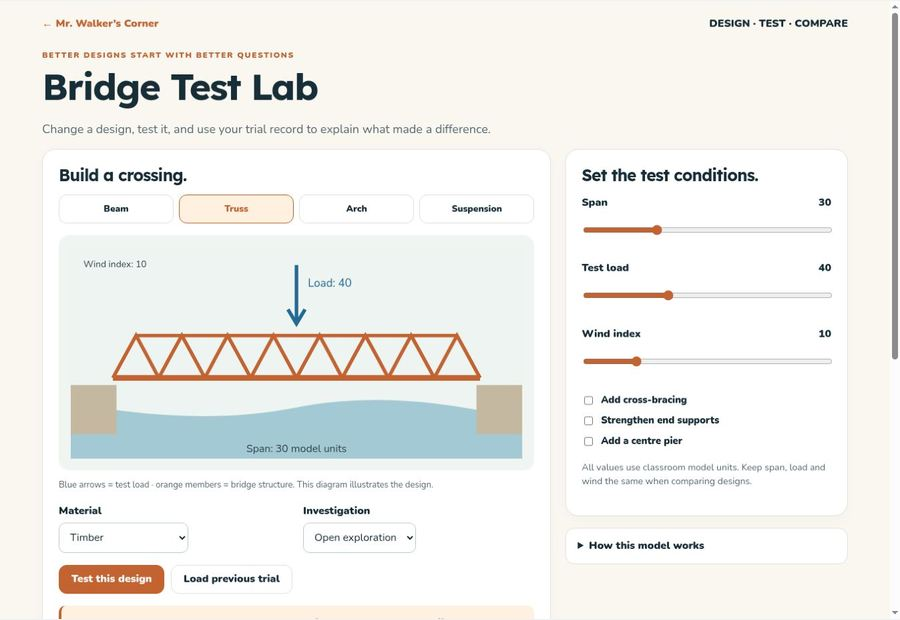
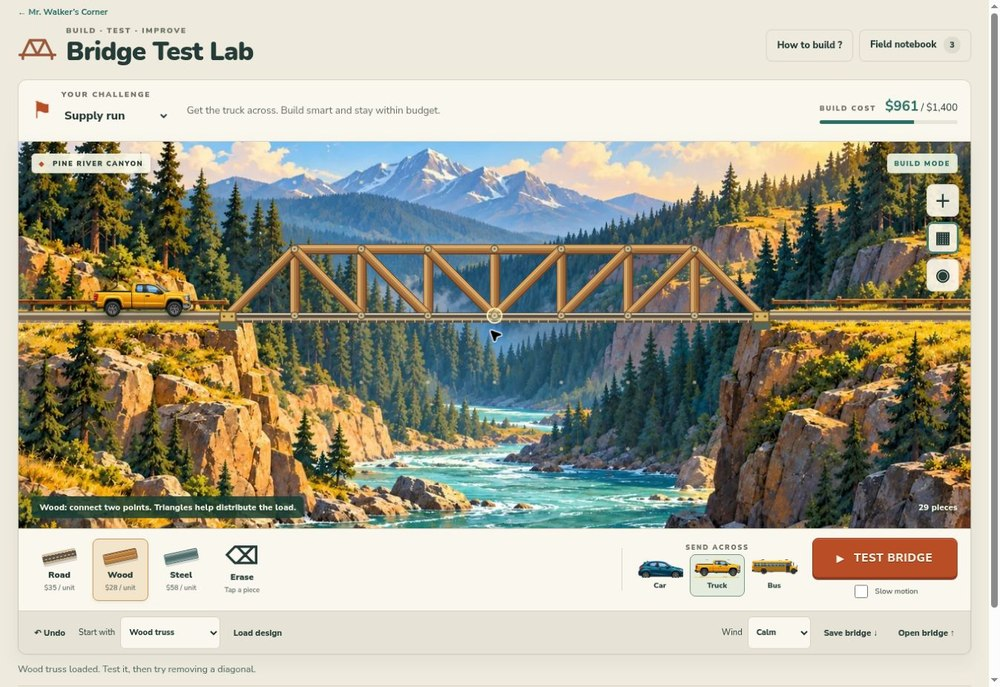
Refresh Mr. Walker’s Corner with the live bridge game preview and responsive checks

diff --git a/walker-corner/index.html b/walker-corner/index.html
@@ -1,4 +1,4 @@
 <!doctype html><html lang="en"><head><meta charset="utf-8"><meta name="viewport" content="width=device-width,initial-scale=1"><title>Mr. Walker’s Corner · Engaging Students</title><link rel="stylesheet" href="../learning-shared/studio.css?v=20261006-screen"><style>
 :root{--accent:#356f70;--soft:#e5f0e7;--paper:#fcf8ef}.corner-hero{padding:22px 0 30px;border-bottom:1px solid var(--line);margin-bottom:30px}.corner-hero h1{max-width:800px;font-size:clamp(2.7rem,6vw,4.4rem)}.activity{padding:0;overflow:hidden;display:flex;flex-direction:column}.activity img{display:block;width:100%;aspect-ratio:900/620;object-fit:contain;background:#edf2ed;border-bottom:1px solid var(--line)}.activity-body{padding:24px;display:flex;flex-direction:column;flex:1}.activity-body h2{font-size:1.45rem;margin-top:10px}.activity-body p{color:var(--muted);flex:1}.activity-body .btn{align-self:start;margin-top:10px}.corner-note{max-width:800px;margin:30px 0}.activity .credit{font-size:.8rem;color:var(--muted);margin-top:16px}
-</style></head><body><div class="shell"><nav class="topbar"><a href="https://interactives.blackgold.ca/interactive-learning-lab/">← All Engaging Students activities</a><span>A TEACHER’S WORKSHOP</span></nav><header class="corner-hero"><div class="kicker">From Mr. Walker’s classroom</div><h1>Mr. Walker’s Corner</h1><p class="lede">Welcome to Mr. Walker’s Corner: a collection of Tyler Walker’s activity ideas, developed into new classroom editions for students and teachers.</p><span class="pill">Investigate · make · explain</span></header><main><h2>Start with a question.</h2><div class="three"><article class="panel activity"><a href="functions/"><img src="../learning-lab-images/walker-functions.jpg?v=20261005" alt="Actual screenshot of Function Machine Detective" width="900" height="620"></a><div class="activity-body"><div class="kicker" style="color:#7152a1">Math · patterns &amp; algebra</div><h2>Function Machine Detective</h2><p>Connect tables, rules and graphs. Solve 20 cases, predict a new output, then build a machine of your own.</p><a class="btn primary" href="functions/">Investigate a rule →</a><div class="credit">Based on Tyler’s Function Machine Detective · <a href="https://sites.google.com/gshare.blackgold.ca/creatingfunctions/home" target="_blank" rel="noopener">Original activity</a></div></div></article><article class="panel activity"><a href="bridge/"><img src="../learning-lab-images/walker-bridge.jpg?v=20261005" alt="Actual screenshot of Bridge Test Lab" width="900" height="620"></a><div class="activity-body"><div class="kicker" style="color:#ad5931">Science · structures &amp; testing</div><h2>Bridge Test Lab</h2><p>Make a design, test it under the same conditions, and compare trials. Use evidence to explain which change helped.</p><a class="btn primary" href="bridge/">Design a crossing →</a><div class="credit">Based on Tyler’s Bridge Tester · <a href="https://sites.google.com/gshare.blackgold.ca/bridgetester/home" target="_blank" rel="noopener">Original activity</a></div></div></article><article class="panel activity"><a href="plurals/"><img src="../learning-lab-images/walker-plurals.jpg?v=20261005" alt="Actual screenshot of Plural Pattern Lab" width="900" height="620"></a><div class="activity-body"><div class="kicker" style="color:#327d68">Words · spelling patterns</div><h2>Plural Pattern Lab</h2><p>Build plural words, move word cards into pattern groups, and compare what changes and what stays the same.</p><a class="btn primary" href="plurals/">Explore word patterns →</a><div class="credit">Based on Tyler’s Plural Practice · <a href="https://sites.google.com/gshare.blackgold.ca/plural-practice/home" target="_blank" rel="noopener">Original activity</a></div></div></article></div><div class="corner-note"><h3>A growing corner of the resource bank.</h3><p class="muted">Original ideas and recovered activity source: Tyler Walker. New classroom editions and improvements: Engaging Students. These copies are maintained here, with links back to Tyler’s originals.</p></div></main><footer class="footer">Engaging Students · Darren Maltais · Mr. Walker’s Corner</footer></div></body></html>
+</style></head><body><div class="shell"><nav class="topbar"><a href="https://interactives.blackgold.ca/interactive-learning-lab/">← All Engaging Students activities</a><span>A TEACHER’S WORKSHOP</span></nav><header class="corner-hero"><div class="kicker">From Mr. Walker’s classroom</div><h1>Mr. Walker’s Corner</h1><p class="lede">Welcome to Mr. Walker’s Corner: a collection of Tyler Walker’s activity ideas, developed into new classroom editions for students and teachers.</p><span class="pill">Investigate · make · explain</span></header><main><h2>Start with a question.</h2><div class="three"><article class="panel activity"><a href="functions/"><img src="../learning-lab-images/walker-functions.jpg?v=20261005" alt="Actual screenshot of Function Machine Detective" width="900" height="620"></a><div class="activity-body"><div class="kicker" style="color:#7152a1">Math · patterns &amp; algebra</div><h2>Function Machine Detective</h2><p>Connect tables, rules and graphs. Solve 20 cases, predict a new output, then build a machine of your own.</p><a class="btn primary" href="functions/">Investigate a rule →</a><div class="credit">Based on Tyler’s Function Machine Detective · <a href="https://sites.google.com/gshare.blackgold.ca/creatingfunctions/home" target="_blank" rel="noopener">Original activity</a></div></div></article><article class="panel activity"><a href="bridge/"><img src="../learning-lab-images/walker-bridge.jpg?v=20261007-game" alt="Actual screenshot of Bridge Test Lab" width="900" height="620"></a><div class="activity-body"><div class="kicker" style="color:#ad5931">Science · structures &amp; testing</div><h2>Bridge Test Lab</h2><p>Build across a painted mountain canyon. Connect beams, send a vehicle across, watch the stress, and compare your designs in a field notebook.</p><a class="btn primary" href="bridge/">Design a crossing →</a><div class="credit">Based on Tyler’s Bridge Tester · <a href="https://sites.google.com/gshare.blackgold.ca/bridgetester/home" target="_blank" rel="noopener">Original activity</a></div></div></article><article class="panel activity"><a href="plurals/"><img src="../learning-lab-images/walker-plurals.jpg?v=20261005" alt="Actual screenshot of Plural Pattern Lab" width="900" height="620"></a><div class="activity-body"><div class="kicker" style="color:#327d68">Words · spelling patterns</div><h2>Plural Pattern Lab</h2><p>Build plural words, move word cards into pattern groups, and compare what changes and what stays the same.</p><a class="btn primary" href="plurals/">Explore word patterns →</a><div class="credit">Based on Tyler’s Plural Practice · <a href="https://sites.google.com/gshare.blackgold.ca/plural-practice/home" target="_blank" rel="noopener">Original activity</a></div></div></article></div><div class="corner-note"><h3>A growing corner of the resource bank.</h3><p class="muted">Original ideas and recovered activity source: Tyler Walker. New classroom editions and improvements: Engaging Students. These copies are maintained here, with links back to Tyler’s originals.</p></div></main><footer class="footer">Engaging Students · Darren Maltais · Mr. Walker’s Corner</footer></div></body></html>
 

diff --git a/walker-corner/bridge/verification/screen-checks.html b/walker-corner/bridge/verification/screen-checks.html
@@ -1,1 +1,1 @@
-<!doctype html><html lang="en"><head><meta charset="utf-8"><meta name="viewport" content="width=device-width,initial-scale=1"><title>Bridge screen checks</title><style>body{margin:0;font:14px system-ui;background:#cbd3cc}header{padding:8px;background:#fff;display:flex;gap:12px;align-items:center;position:sticky;top:0;z-index:2}select,button{font:inherit;min-height:44px}iframe{display:block;border:0;margin:10px auto;background:white}#frameWrap{overflow:auto;height:calc(100vh - 65px)}</style></head><body><header><label>Viewport <select id="size"><option value="1366,650">1366 × 650</option><option value="1024,540">1024 × 540</option><option value="768,900">768 × 900</option><option value="390,667">390 × 667</option><option value="320,568">320 × 568</option><option value="640,360">640 × 360</option><option value="1280,800">1280 × 800</option></select></label><label>Text size <select id="text"><option value="100">100%</option><option value="150">150%</option><option value="200">200%</option></select></label><button id="read">Read layout</button><output id="out"></output></header><div id="frameWrap"><iframe id="frame" title="Bridge game responsive preview" src="../index.html"></iframe></div><script>const f=document.getElementById('frame'),s=document.getElementById('size');function resize(){const[w,h]=s.value.split(',');f.style.width=w+'px';f.style.height=h+'px';}s.onchange=resize;document.getElementById('text').onchange=()=>{f.contentDocument.documentElement.style.fontSize=document.getElementById('text').value+'%';f.contentWindow.dispatchEvent(new Event('resize'));};document.getElementById('read').onclick=()=>{const d=f.contentDocument,c=d.querySelector('canvas');document.getElementById('out').textContent=JSON.stringify({viewport:[f.clientWidth,f.clientHeight],overflow:d.documentElement.scrollWidth-f.clientWidth,canvas:[c.clientWidth,c.clientHeight],mode:d.getElementById('modeBadge').textContent,pieces:d.getElementById('pieces').textContent,cost:d.getElementById('cost').textContent});};resize();</script></body></html>
+<!doctype html><html lang="en"><head><meta charset="utf-8"><meta name="viewport" content="width=device-width,initial-scale=1"><title>Bridge screen checks</title><style>body{margin:0;font:14px system-ui;background:#cbd3cc}header{padding:8px;background:#fff;display:flex;gap:12px;align-items:center;position:sticky;top:0;z-index:2}select,button{font:inherit;min-height:44px}iframe{display:block;border:0;margin:10px auto;background:white}#frameWrap{overflow:auto;height:calc(100vh - 65px)}</style></head><body><header><label>Viewport <select id="size"><option value="1366,650">1366 × 650</option><option value="1024,540">1024 × 540</option><option value="768,900">768 × 900</option><option value="390,667">390 × 667</option><option value="320,568">320 × 568</option><option value="640,360">640 × 360</option><option value="1280,800">1280 × 800</option></select></label><label>Text size <select id="text"><option value="100">100%</option><option value="150">150%</option><option value="200">200%</option></select></label><button id="read">Read layout</button><output id="out"></output></header><div id="frameWrap"><iframe id="frame" title="Bridge game responsive preview" src="../index.html?v=20261007-game3"></iframe></div><script>const f=document.getElementById('frame'),s=document.getElementById('size');function resize(){const[w,h]=s.value.split(',');f.style.width=w+'px';f.style.height=h+'px';}s.onchange=resize;document.getElementById('text').onchange=()=>{f.contentDocument.documentElement.style.fontSize=document.getElementById('text').value+'%';f.contentWindow.dispatchEvent(new Event('resize'));};document.getElementById('read').onclick=()=>{const d=f.contentDocument,c=d.querySelector('canvas');document.getElementById('out').textContent=JSON.stringify({viewport:[f.clientWidth,f.clientHeight],overflow:d.documentElement.scrollWidth-f.clientWidth,canvas:[c.clientWidth,c.clientHeight],mode:d.getElementById('modeBadge').textContent,pieces:d.getElementById('pieces').textContent,cost:d.getElementById('cost').textContent});};resize();</script></body></html>

diff --git a/walker-corner/bridge/verification/engine.test.js b/walker-corner/bridge/verification/engine.test.js
@@ -21,4 +21,4 @@ const model=E.prepare(truss),a=E.solve(model,'truck',600),b=E.solve(model,'truck
 assert.deepEqual(a.displacements,b.displacements,'Repeated conditions must give identical results');
 assert(Math.abs(a.displacements[model.map.get('264,250')*3+1])<1e-9,'Bank supports must remain fixed');
 const wind=E.scan(truss,'truck',28);assert(wind.maxStress>truck.maxStress,'Wind must alter the solved forces');
-console.log(JSON.stringify({checks:14,trussTruck:{stress:truck.maxStress,bend:truck.maxDeflection,cost:truck.cost},unbracedTruck:{stress:unbraced.maxStress,bend:unbraced.maxDeflection},reinforcedBus:E.scan(upgraded,'bus').pass},null,2));
+console.log(JSON.stringify({checks:16,trussTruck:{stress:truck.maxStress,bend:truck.maxDeflection,cost:truck.cost},unbracedTruck:{stress:unbraced.maxStress,bend:unbraced.maxDeflection},reinforcedBus:E.scan(upgraded,'bus').pass},null,2));
